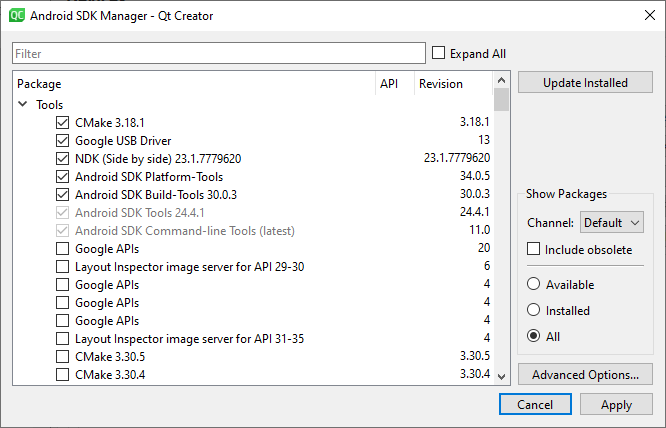
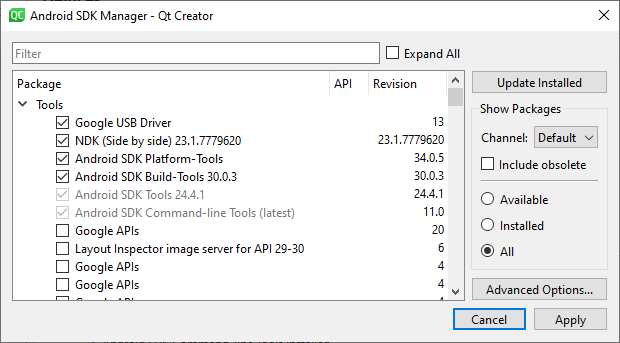
Ingore Android SDK changes

diff --git a/tutorials/setting-up/sdl3-for-android/public/index.html b/tutorials/setting-up/sdl3-for-android/public/index.html
@@ -39,6 +39,8 @@ C:\Qt\6.6.3\mingw_64\bin</code></pre>
             <img src="./images/01-android-sdk-manager.png"><br>
             <img src="./images/02-android-sdk-manager.png">
             <li>Press the "Apply" button</li>
+            <li>Ignore the following message by pressing on the "Cancel" button:</li>
+            <img src="./images/ingore-android-sdk-changes.png"><br>
             <!-- <li>Download the "sdlcross-SDL3" template example here: <a href="https://github.com/madebr/sdlcross" target="_blank">https://github.com/madebr/sdlcross</a> (choose the SDL3 branch and select: Code > Download ZIP). Unzip somewhere</li> -->
             <!-- <li>Go to <a href="https://github.com/madebr/SDL/actions/runs/10201751044" target="_blank">this link</a>. Download the "android" archive in the Artifacts section. Unzip it</li> -->
             <!-- <li>You will find the "SDL3-3.1.2.aar" file there</li>
